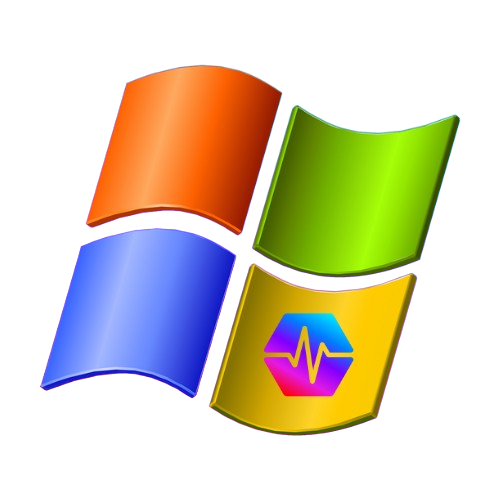
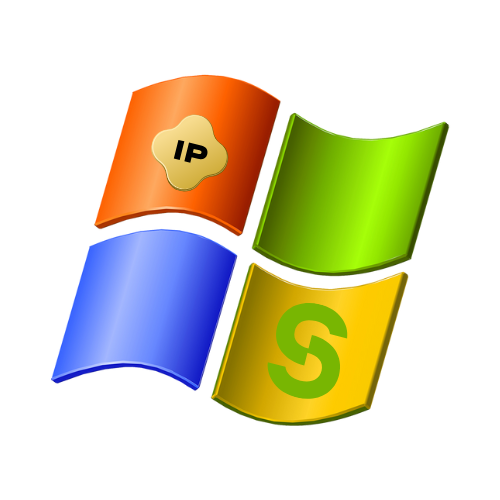
fix

Changed region(s): [[0.06, 0.12, 0.93, 0.87]]

diff --git a/index.html b/index.html
@@ -4,13 +4,13 @@
 
 <head>
   <meta charset="utf-8">
-  <title>Windows On Pulse</title>
-  <meta content="Windows Pulse " name="description">
-  <meta content="Windows Pulse " property="og:title">
-  <meta content="Windows Pulse " property="og:description">
+  <title>Windows On Story</title>
+  <meta content="Windows Story " name="description">
+  <meta content="Windows Story " property="og:title">
+  <meta content="Windows Story " property="og:description">
   <meta content="#" property="og:image">
-  <meta content="Windows Pulse " property="twitter:title">
-  <meta content="Windows Pulse " property="twitter:description">
+  <meta content="Windows Story " property="twitter:title">
+  <meta content="Windows Story " property="twitter:description">
   <meta content="#" property="twitter:image">
   <meta property="og:type" content="website">
   <meta content="summary_large_image" name="twitter:card">
@@ -441,12 +441,12 @@
           <div class="win-content-outer-frame">
             <div class="win-content-inner-frame">
               <div class="win-content"><a href="#" class="bin-item w-inline-block">
-                  <div class="bien-item-text">Windows Pulse
+                  <div class="bien-item-text">Windows Story
                   </div>
                 </a><a href="#" class="bin-item w-inline-block">
                   <div class="bien-item-text">3D-NFT-pack.zip</div>
                 </a><a href="#" class="bin-item w-inline-block">
-                  <div class="bien-item-text">Deploy-Windows Pulse
+                  <div class="bien-item-text">Deploy-Windows Story
                     .exe</div>
                 </a></div>
             </div>
@@ -497,13 +497,13 @@
       </a>
 
       <div class="clock-2">
-        <div class="flex-h"><a href="https://t.me/WindowsPulse_Portal" target="_blank" class="w-inline-block"><img
+        <div class="flex-h"><a href="https://t.me/WindowsStory_Portal" target="_blank" class="w-inline-block"><img
               src="images/65d720d339f549e9be698efb_telegram-logo-pixel.png" alt class="image-6"></a><a href=""
             target="_blank" class="w-inline-block"><img src="images/65d71deffc33dbbb24b85c16_logo-discord-pixel.png" alt
-              class="image-6"></a><a href="https://t.me/WindowsPulse_Portal" target="_blank"
+              class="image-6"></a><a href="https://t.me/WindowsStory_Portal" target="_blank"
             class="link-block w-inline-block"><img src="images/65d71d53b566b4f91fb8adbc_logo-x-twitter.png" alt
               class="image-6"></a>
-          <h6 class="hack23-time-version2 hide">WINP</h6>
+          <h6 class="hack23-time-version2 hide">WINS</h6>
         </div>
       </div>
     </div>
@@ -517,16 +517,16 @@
       class="desktop w-hidden-medium w-hidden-small w-hidden-tiny">
 
       <a id="w-node-_911b49d6-ea40-36b6-c34d-ca2528396137-fa5940a2" data-w-id="911b49d6-ea40-36b6-c34d-ca2528396137"
-        href="https://pump.tires/token/0x72Af3D8595858c6741F373c396C5d923d9202668"
-        class="icon-block draggable w-inline-block"><img src="images/pumptires-symbol.png" width="Auto" height="Auto"
+        href="https://ip.world/"
+        class="icon-block draggable w-inline-block"><img src="images/logo.svg" width="Auto" height="Auto"
           style="width: 40px;border-radius: 50%;" sizes="(max-width: 991px) 100vw, 60px" alt class="win-icon handle">
-        <p class="icon-text">PUMP.tires</p>
+        <p class="icon-text">ip.world</p>
       </a>
         <!-- <a id="w-node-_911b49d6-ea40-36b6-c34d-ca2528396137-fa5940a2" data-w-id="911b49d6-ea40-36b6-c34d-ca2528396137"
-        href="https://pulsex.mypinata.cloud/ipfs/bafybeiajyhfbf6evh4mdabassmbtsy73ci2gmcgh4ffmjkrgsea35vqxba/#/"
+        href="https://Storyx.mypinata.cloud/ipfs/bafybeiajyhfbf6evh4mdabassmbtsy73ci2gmcgh4ffmjkrgsea35vqxba/#/"
         class="icon-block draggable w-inline-block"><img src="images/leger.png" width="Auto" height="Auto"
           style="width: 40px;border-radius: 50%;" sizes="(max-width: 991px) 100vw, 60px" alt class="win-icon handle">
-        <p class="icon-text">PulseX.html</p>
+        <p class="icon-text">StoryX.html</p>
       </a> -->
    
 
@@ -560,7 +560,7 @@
         <p class="icon-text tag">(999+)</p>
       </a>
 
-      <a id="w-node-_98696d31-f657-2a46-99d4-e65f13122bee-fa5940a2" href="https://t.me/WindowsPulse_Portal" target="_blank"
+      <a id="w-node-_98696d31-f657-2a46-99d4-e65f13122bee-fa5940a2" href="https://t.me/WindowsStory_Portal" target="_blank"
         class="icon-block draggable w-inline-block"><img src="images/65d7bfcb85a47be31f4b20b7_tg-pixel-logo.png"
           sizes="(max-width: 991px) 100vw, 40px" height width="65" alt
           srcset="images/65d7bfcb85a47be31f4b20b7_tg-pixel-logo-p-500.png 500w, images/65d7bfcb85a47be31f4b20b7_tg-pixel-logo-1.png 524w"
@@ -648,7 +648,7 @@
         <p class="icon-text tag">(285)</p>
       </a>
 
-      <a id="w-node-e7e03d8e-0ed1-f2f7-a2ef-ba81b0a678b4-fa5940a2" href="https://t.me/WindowsPulse_Portal" target="_blank"
+      <a id="w-node-e7e03d8e-0ed1-f2f7-a2ef-ba81b0a678b4-fa5940a2" href="https://t.me/WindowsStory_Portal" target="_blank"
         class="icon-block draggable w-inline-block"><img src="images/65d7bfcb85a47be31f4b20b7_tg-pixel-logo.png"
           sizes="(max-width: 991px) 40px, 100vw" height width="65" alt
           srcset="images/65d7bfcb85a47be31f4b20b7_tg-pixel-logo-p-500.png 500w, images/65d7bfcb85a47be31f4b20b7_tg-pixel-logo-1.png 524w"
@@ -674,7 +674,7 @@
         href="#" class="icon-block draggable w-inline-block"><img style="width: 30px;border-radius: 50px;"
           src="images/leger.jpg" width="Auto" height="Auto" sizes="(max-width: 991px) 60px, 100vw" alt="WINP"
           class="win-icon handle">
-        <p class="icon-text">PulseX.html</p>
+        <p class="icon-text">StoryX.html</p>
       </a>
 
       <a id="w-node-c60d7db1-6134-d54c-3d18-e573cc915331-fa5940a2" data-w-id="c60d7db1-6134-d54c-3d18-e573cc915331"
